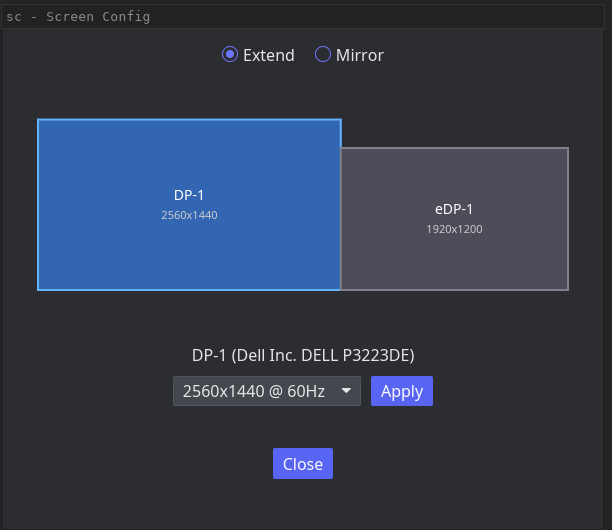
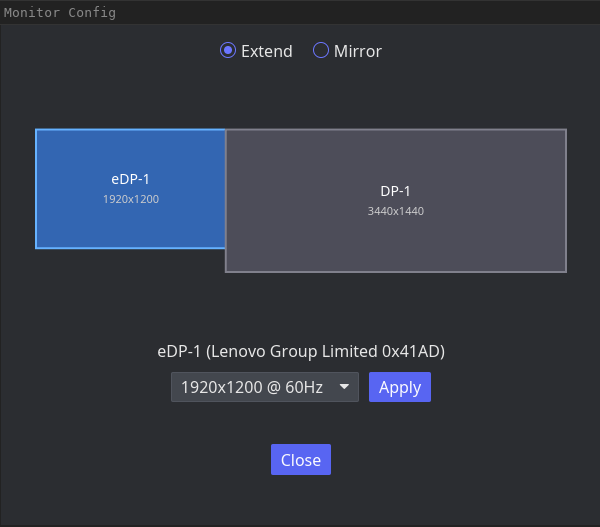
Rename to simple monitor config
Seems to be Sway's terminology.

diff --git a/src/main.rs b/src/main.rs
@@ -5,7 +5,7 @@ mod types;
 
 use app::App;
 
-pub const APP_ID: &str = "simple_sway_screen_config";
+pub const APP_ID: &str = "simple_sway_monitor_config";
 
 fn theme(_: &App) -> iced::Theme {
     iced::Theme::Dark
@@ -13,7 +13,7 @@ fn theme(_: &App) -> iced::Theme {
 
 fn main() -> iced::Result {
     iced::application(App::default, App::update, App::view)
-        .title("Screen Config")
+        .title("Monitor Config")
         .subscription(App::subscription)
         .window(iced::window::Settings {
             size: iced::Size::new(600.0, 500.0),

diff --git a/README.md b/README.md
@@ -1,4 +1,4 @@
-# sc - Sway Screen Configuration
+# smc - Simple Monitor Configuration for Sway
 
 A simple GUI tool for managing monitor layout in [Sway](https://swaywm.org/).
 
@@ -14,7 +14,7 @@ A simple GUI tool for managing monitor layout in [Sway](https://swaywm.org/).
 
 ## Screenshot
 
-![sc screenshot](docs/screenshot.png)
+![smc screenshot](docs/screenshot.png)
 
 ## Building
 
@@ -24,23 +24,23 @@ Requires Rust 1.88+.
 cargo build --release
 ```
 
-The binary is at `target/release/sc`.
+The binary is at `target/release/smc`.
 
 ## Installation
 
 ```sh
-cp target/release/sc ~/.local/bin/
+cp target/release/smc ~/.local/bin/
 ```
 
 To make the window float in Sway, add to `~/.config/sway/config`:
 
 ```
-for_window [app_id="simple_sway_screen_config"] floating enable
+for_window [app_id="simple_sway_monitor_config"] floating enable
 ```
 
 ## Usage
 
-Launch `sc` from a terminal or application launcher. Click a monitor in the
+Launch `smc` from a terminal or application launcher. Click a monitor in the
 canvas to select it, drag to reposition. Monitors swap live when dragged past
 each other. On release, the monitor snaps to the nearest edge or alignment of
 its neighbors.
